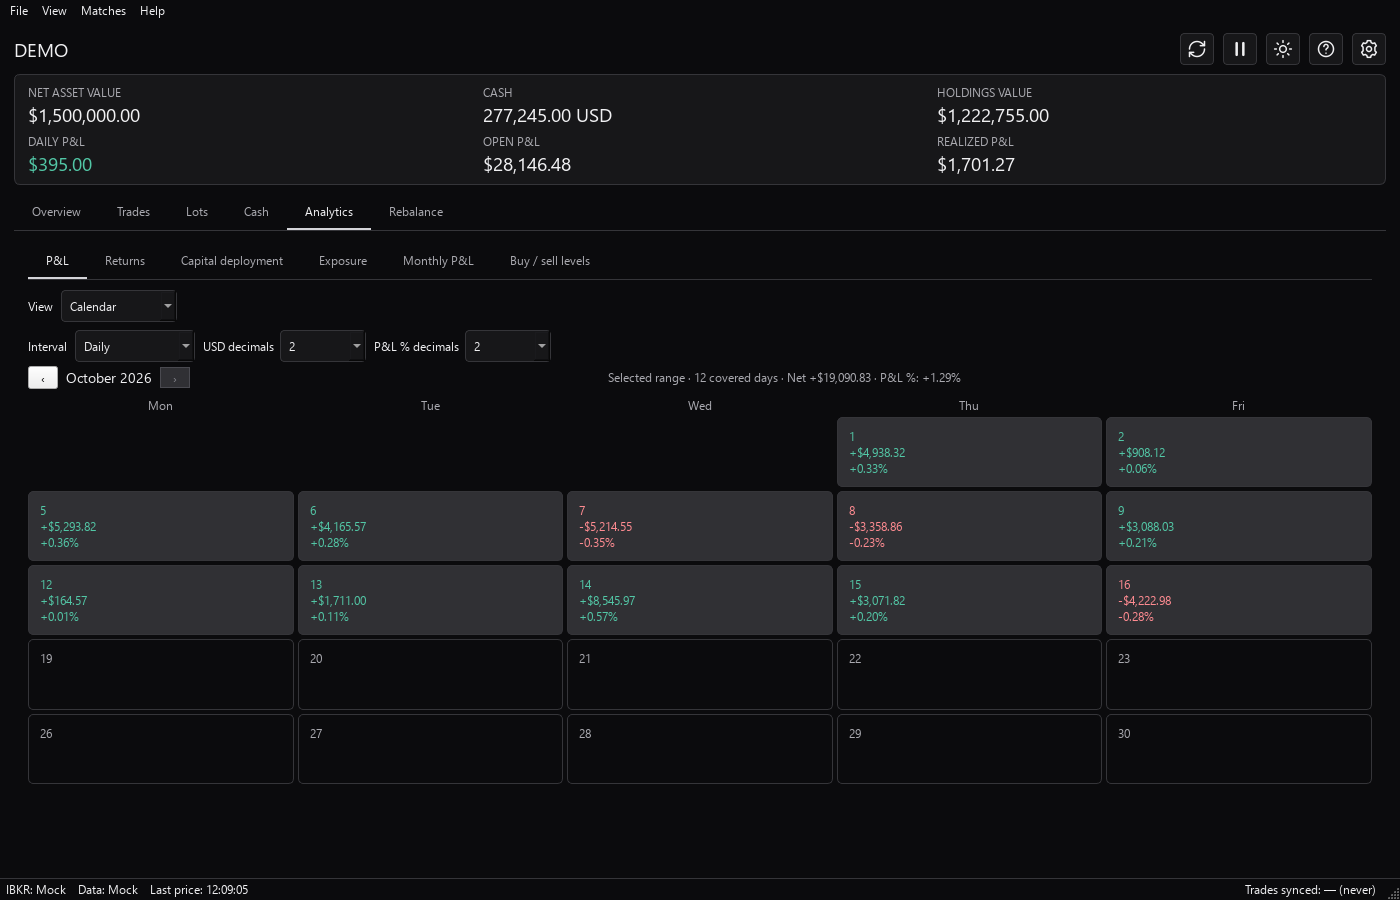
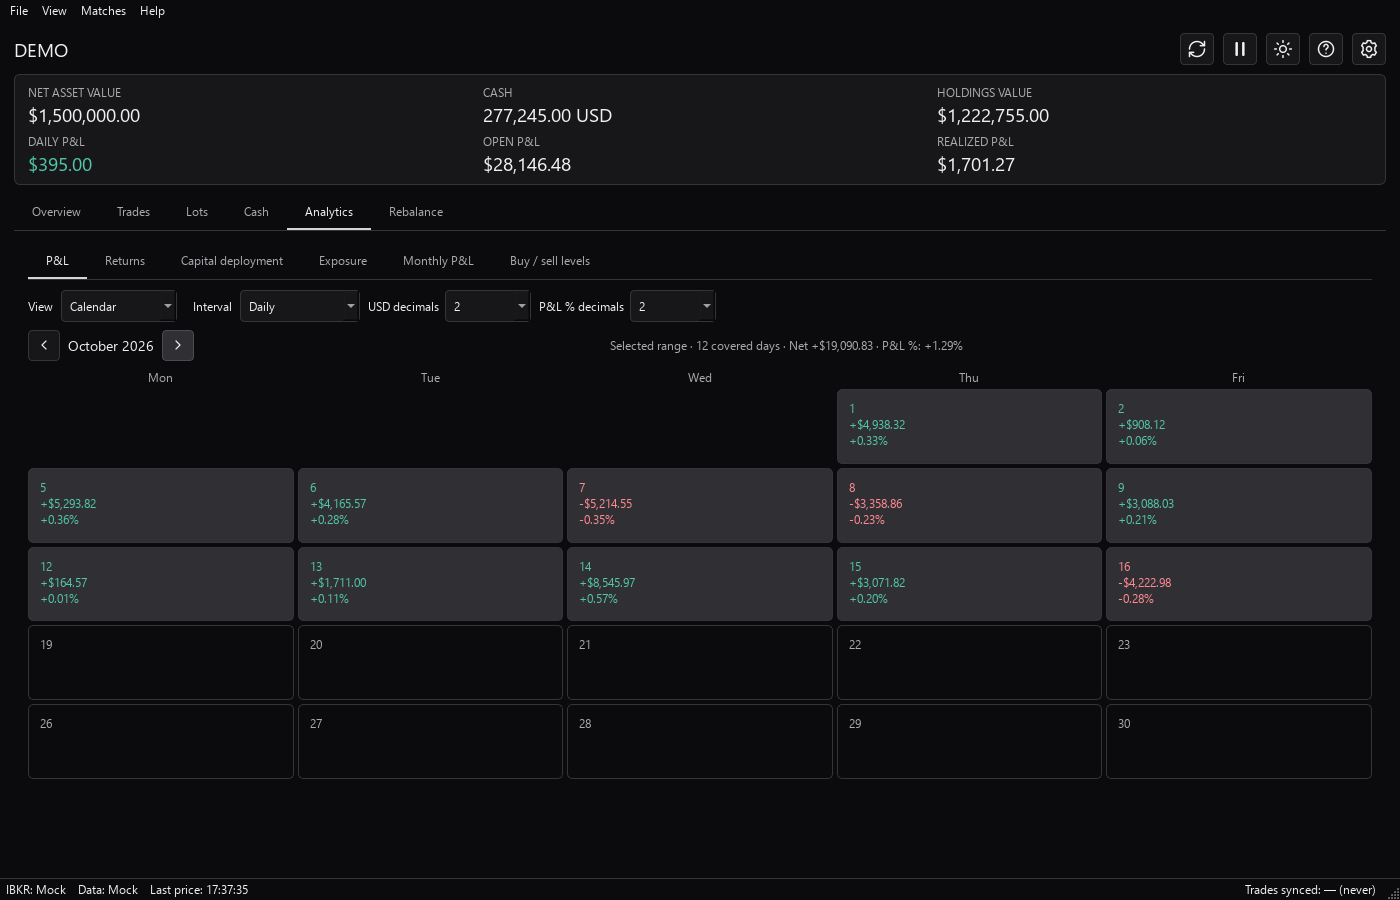
Polish P&L calendar and build version 1.1.1

diff --git a/app/views/calendar_ui.py b/app/views/calendar_ui.py
@@ -1,21 +1,22 @@
 """Reusable interval controls and adaptive calendar grids."""
 
-from PySide6.QtCore import Qt, Signal
+from PySide6.QtCore import QSize, Qt, Signal
 from PySide6.QtWidgets import (QComboBox, QGridLayout, QHBoxLayout, QLabel,
-                               QSizePolicy, QToolButton, QVBoxLayout, QWidget)
+                               QSizePolicy, QWidget)
 
-from app.views.ui_theme import style_toolbar_dropdown
+from app.views.action_icons import action_icon
+from app.views.ui_theme import COLORS, style_toolbar_dropdown
+from app.views.widgets import button, section_title
 
 
 class CalendarToolbar(QWidget):
+    """Interval and optional filters on one row."""
+
     def __init__(self, intervals, parent=None):
         super().__init__(parent)
-        layout = QVBoxLayout(self)
-        layout.setContentsMargins(0, 0, 0, 0)
-        layout.setSpacing(4)
-        row = QHBoxLayout()
+        row = QHBoxLayout(self)
+        row.setContentsMargins(0, 0, 0, 0)
         row.setSpacing(8)
-        layout.addLayout(row)
         self._row = row
         row.addWidget(QLabel("Interval"))
         self.interval_combo = style_toolbar_dropdown(QComboBox())
@@ -24,38 +25,52 @@ class CalendarToolbar(QWidget):
         row.addWidget(self.interval_combo)
         self._next_control_index = row.count()
         row.addStretch()
-        navigation = QHBoxLayout()
-        navigation.setSpacing(8)
-        layout.addLayout(navigation)
-        self._navigation = navigation
-        self.previous_button = QToolButton()
-        self.previous_button.setText("‹")
-        self.previous_button.setToolTip("Previous period")
-        self.previous_button.setFixedWidth(30)
-        navigation.addWidget(self.previous_button)
-        self.period_label = QLabel()
-        self.period_label.setObjectName("sectionTitle")
-        self.period_label.setAlignment(Qt.AlignCenter)
-        navigation.addWidget(self.period_label)
-        self.next_button = QToolButton()
-        self.next_button.setText("›")
-        self.next_button.setToolTip("Next period")
-        self.next_button.setFixedWidth(30)
-        navigation.addWidget(self.next_button)
 
     def add_control(self, widget):
         """Place another filter beside the interval selector."""
         self._row.insertWidget(self._next_control_index, widget)
         self._next_control_index += 1
 
-    def add_navigation_detail(self, widget):
+
+class CalendarNavigation(QWidget):
+    """Theme-aware period navigation with room for a summary."""
+
+    def __init__(self, parent=None):
+        super().__init__(parent)
+        row = QHBoxLayout(self)
+        row.setContentsMargins(0, 0, 0, 0)
+        row.setSpacing(8)
+        self._row = row
+        self.previous_button = button("")
+        self.previous_button.setToolTip("Previous period")
+        self.previous_button.setAccessibleName("Previous period")
+        self.previous_button.setFixedSize(32, 32)
+        self.previous_button.setIconSize(QSize(16, 16))
+        row.addWidget(self.previous_button)
+        self.period_label = section_title("")
+        self.period_label.setAlignment(Qt.AlignCenter)
+        row.addWidget(self.period_label)
+        self.next_button = button("")
+        self.next_button.setToolTip("Next period")
+        self.next_button.setAccessibleName("Next period")
+        self.next_button.setFixedSize(32, 32)
+        self.next_button.setIconSize(QSize(16, 16))
+        row.addWidget(self.next_button)
+        self.set_theme("light")
+
+    def add_detail(self, widget):
         """Show contextual information beside the current period."""
-        self._navigation.addWidget(widget, 1)
+        self._row.addWidget(widget, 1)
 
     def set_period(self, label, can_previous, can_next):
         self.period_label.setText(label)
         self.previous_button.setEnabled(can_previous)
         self.next_button.setEnabled(can_next)
+
+    def set_theme(self, theme):
+        color = COLORS[theme]["text"]
+        self.previous_button.setIcon(action_icon("chevron_left", color))
+        self.next_button.setIcon(action_icon("chevron_right", color))
 
 
 class DecimalPlacesControl(QWidget):

diff --git a/tests/test_analytics.py b/tests/test_analytics.py
@@ -28,13 +28,22 @@ def test_pnl_calendar_intervals_use_covered_days_and_selected_range():
     app.processEvents()
     assert calendar.minimumSizeHint().width() <= 750
     toolbar = calendar.toolbar
+    navigator = calendar.navigator
+    assert navigator.previous_button.text() == ""
+    assert navigator.next_button.text() == ""
+    assert navigator.previous_button.objectName() == "secondary"
+    assert navigator.next_button.objectName() == "secondary"
+    assert navigator.previous_button.accessibleName() == "Previous period"
+    assert navigator.next_button.accessibleName() == "Next period"
+    assert not navigator.previous_button.icon().isNull()
+    assert not navigator.next_button.icon().isNull()
     assert calendar.usd_decimals.parentWidget() is toolbar
     assert calendar.percent_decimals.parentWidget() is toolbar
     assert toolbar.interval_combo.geometry().right() < calendar.usd_decimals.geometry().left()
     assert calendar.usd_decimals.geometry().right() < calendar.percent_decimals.geometry().left()
     assert calendar.usd_decimals.caption.text() == "USD decimals"
     assert calendar.percent_decimals.caption.text() == "P&L % decimals"
-    assert toolbar.previous_button.geometry().center().y() > calendar.percent_decimals.geometry().center().y()
+    assert navigator.geometry().center().y() > toolbar.geometry().center().y()
     assert abs(toolbar.interval_combo.geometry().center().y() -
                calendar.percent_decimals.geometry().center().y()) < 5
     rows = [
@@ -71,6 +80,27 @@ def test_pnl_calendar_intervals_use_covered_days_and_selected_range():
     assert "No covered daily P&L" in calendar.summary_label.text()
     assert "$8.00" not in calendar.period_cells[0].text()
     assert "0.29%" not in calendar.period_cells[0].text()
+    calendar.close()
+
+
+def test_pnl_calendar_daily_arrows_move_one_month():
+    import os
+    os.environ.setdefault("QT_QPA_PLATFORM", "offscreen")
+    from PySide6.QtWidgets import QApplication
+    from app.views.pnl_calendar import PnlCalendar
+
+    app = QApplication.instance() or QApplication([])
+    calendar = PnlCalendar()
+    calendar.set_data([], date(2026, 7, 1), date(2026, 9, 30), True)
+    assert calendar.period_label.text() == "September 2026"
+    assert not calendar.next_button.isEnabled()
+    calendar.previous_button.click()
+    assert calendar.period_label.text() == "August 2026"
+    calendar.previous_button.click()
+    assert calendar.period_label.text() == "July 2026"
+    assert not calendar.previous_button.isEnabled()
+    calendar.next_button.click()
+    assert calendar.period_label.text() == "August 2026"
     calendar.close()
 
 
@@ -111,6 +141,15 @@ def test_pnl_calendar_switch_and_interval_restore_in_analytics(tmp_path, monkeyp
         tab._set_dates(date(2026, 1, 2), date(2026, 1, 5))
         tab.refresh()
         tab.pnl_view_combo.setCurrentText("Calendar")
+        window.tabs.setCurrentWidget(tab)
+        window.resize(1400, 900)
+        window.show()
+        app.processEvents()
+        assert not tab.pnl_calendar.toolbar.isHidden()
+        control_y = lambda widget: widget.mapTo(tab.pnl_page, widget.rect().center()).y()
+        assert abs(control_y(tab.pnl_view_combo) - control_y(tab.pnl_calendar.interval_combo)) < 5
+        assert abs(control_y(tab.pnl_view_combo) - control_y(tab.pnl_calendar.usd_decimals.dropdown)) < 5
+        assert abs(control_y(tab.pnl_view_combo) - control_y(tab.pnl_calendar.percent_decimals.dropdown)) < 5
         assert tab.controls_panel.isHidden()
         assert tab.pnl_summary_panel.isHidden()
         assert tab.range_combo.isHidden()
@@ -126,6 +165,7 @@ def test_pnl_calendar_switch_and_interval_restore_in_analytics(tmp_path, monkeyp
         assert "Net +$12 · P&L %: +1.200%" in tab.pnl_calendar.summary_label.text()
         state = tab.view_state()
         tab.pnl_view_combo.setCurrentText("Chart and table")
+        assert tab.pnl_calendar.toolbar.isHidden()
         assert not tab.controls_panel.isHidden()
         assert not tab.pnl_summary_panel.isHidden()
         assert not tab.range_combo.isHidden()

diff --git a/app/views/pnl_calendar.py b/app/views/pnl_calendar.py
@@ -7,7 +7,9 @@ import math
 from PySide6.QtCore import Qt
 from PySide6.QtWidgets import QLabel, QSizePolicy, QStackedWidget, QVBoxLayout, QWidget
 
-from app.views.calendar_ui import CalendarGrid, CalendarToolbar, DecimalPlacesControl
+from app.views.calendar_ui import (CalendarGrid, CalendarNavigation, CalendarToolbar,
+                                   DecimalPlacesControl)
+from app.views.widgets import hint
 
 
 def _signed_money(value, places=2):
@@ -29,7 +31,7 @@ def _signed_percent(value, places=2):
 class PnlCalendar(QWidget):
     """Browse daily or aggregated P&L within the selected analytics range."""
 
-    def __init__(self, parent=None):
+    def __init__(self, parent=None, *, inline_toolbar=True):
         super().__init__(parent)
         self._first = self._last = self._anchor = date.today()
         self._rows = {}
@@ -40,10 +42,11 @@ class PnlCalendar(QWidget):
         self.toolbar = CalendarToolbar(("Daily", "Weekly", "Monthly", "Quarterly", "Yearly"))
         self.interval_combo = self.toolbar.interval_combo
         self.interval_combo.currentIndexChanged.connect(self._render)
-        self.previous_button = self.toolbar.previous_button
+        self.navigator = CalendarNavigation()
+        self.previous_button = self.navigator.previous_button
         self.previous_button.clicked.connect(lambda: self._change_page(-1))
-        self.period_label = self.toolbar.period_label
-        self.next_button = self.toolbar.next_button
+        self.period_label = self.navigator.period_label
+        self.next_button = self.navigator.next_button
         self.next_button.clicked.connect(lambda: self._change_page(1))
         self.usd_decimal_control = DecimalPlacesControl("USD")
         self.percent_decimal_control = DecimalPlacesControl("P&L %")
@@ -51,14 +54,15 @@ class PnlCalendar(QWidget):
         self.percent_decimals = self.percent_decimal_control
         self.toolbar.add_control(self.usd_decimal_control)
         self.toolbar.add_control(self.percent_decimal_control)
-        layout.addWidget(self.toolbar)
+        if inline_toolbar:
+            layout.addWidget(self.toolbar)
         self.usd_decimals.valueChanged.connect(self._render)
         self.percent_decimals.valueChanged.connect(self._render)
-        self.summary_label = QLabel()
-        self.summary_label.setObjectName("hint")
+        self.summary_label = hint("")
         self.summary_label.setAlignment(Qt.AlignCenter)
         self.summary_label.setSizePolicy(QSizePolicy.Ignored, QSizePolicy.Preferred)
-        self.toolbar.add_navigation_detail(self.summary_label)
+        self.navigator.add_detail(self.summary_label)
+        layout.addWidget(self.navigator)
         self.note_label = QLabel()
         self.note_label.setObjectName("hint")
         self.note_label.setWordWrap(True)
@@ -73,6 +77,9 @@ class PnlCalendar(QWidget):
         self.period_cells = self.period_grid.cells
         self.grids.addWidget(self.period_grid)
         layout.addWidget(self.grids, 1)
+
+    def set_theme(self, theme):
+        self.navigator.set_theme(theme)
 
     def set_data(self, rows, first, last, complete):
         self._rows = {row["day"]: row for row in rows}
@@ -141,7 +148,7 @@ class PnlCalendar(QWidget):
             return
         interval = self.interval_combo.currentText()
         page = self._page_start(self._anchor)
-        self.toolbar.set_period("", page > self._page_start(self._first),
+        self.navigator.set_period("", page > self._page_start(self._first),
                                 page < self._page_start(self._last))
         self.grids.setCurrentIndex(0 if interval == "Daily" else 1)
         if interval == "Daily":

diff --git a/app/views/date_input.py b/app/views/date_input.py
@@ -1,9 +1,9 @@
 """Reusable ISO date entry with a keyboard-friendly calendar grid."""
 
 from PySide6.QtCore import QDate, QPoint, Qt, Signal
-from PySide6.QtGui import QColor, QFont, QIcon, QPen, QTextCharFormat
-from PySide6.QtWidgets import (QCalendarWidget, QHBoxLayout, QLineEdit,
-                               QMenu, QToolButton, QWidget, QWidgetAction)
+from PySide6.QtGui import QColor, QFont, QPen, QTextCharFormat
+from PySide6.QtWidgets import (QAbstractSpinBox, QCalendarWidget, QHBoxLayout, QLineEdit,
+                               QMenu, QSpinBox, QToolButton, QWidget, QWidgetAction)
 
 from app.views.ui_theme import COLORS
 
@@ -29,14 +29,14 @@ class DatePickerCalendar(QCalendarWidget):
         for weekday in (Qt.Monday, Qt.Tuesday, Qt.Wednesday, Qt.Thursday,
                         Qt.Friday, Qt.Saturday, Qt.Sunday):
             self.setWeekdayTextFormat(weekday, header)
-        for name, label in (("qt_calendar_prevmonth", "‹"),
-                            ("qt_calendar_nextmonth", "›")):
+        for name, direction in (("qt_calendar_prevmonth", Qt.LeftArrow),
+                                ("qt_calendar_nextmonth", Qt.RightArrow)):
             button = self.findChild(QToolButton, name)
             if button is not None:
-                button.setArrowType(Qt.NoArrow)
-                button.setIcon(QIcon())
-                button.setText(label)
-                button.setToolButtonStyle(Qt.ToolButtonTextOnly)
+                button.setArrowType(direction)
+        year_editor = self.findChild(QSpinBox, "qt_calendar_yearedit")
+        if year_editor is not None:
+            year_editor.setButtonSymbols(QAbstractSpinBox.NoButtons)
 
     def setRange(self, first, last):
         self.range_start = first if first.isValid() and last.isValid() and first <= last else None
@@ -61,7 +61,7 @@ class DatePickerCalendar(QCalendarWidget):
             painter.drawRoundedRect(tile.adjusted(0, 0, -1, -1), 6, 6)
         available = self.minimumDate() <= day <= self.maximumDate()
         current_month = day.year() == self.yearShown() and day.month() == self.monthShown()
-        painter.setPen(QColor(colors["surface"] if selected else
+        painter.setPen(QColor(colors["calendar_selected_text"] if selected else
                                colors["text"] if available and current_month else colors["muted"]))
         painter.drawText(rect, Qt.AlignCenter, str(day.day()))
         painter.restore()

diff --git a/app/views/analytics_ui.py b/app/views/analytics_ui.py
@@ -639,6 +639,7 @@ class AnalyticsTab(QWidget):
 
     def _pnl_view_changed(self, index):
         self.pnl_views.setCurrentIndex(index)
+        self.pnl_calendar.toolbar.setVisible(index == 1)
         if self.sections.currentWidget() is self.pnl_page:
             self._update_section_controls()
 
@@ -830,11 +831,16 @@ class AnalyticsTab(QWidget):
                                       "Daily adjusted P&L"), "analytics_pnl_decimals",
                                      {1: (2, "usd"), 2: (2, "usd"), 3: (2, "usd"),
                                       4: (2, "percent"), 5: (2, "usd"), 6: (2, "usd")})
+        self.pnl_calendar = PnlCalendar(inline_toolbar=False)
         view_controls = QHBoxLayout()
+        view_controls.setSpacing(TOOLBAR_ITEM_SPACING)
         view_controls.addWidget(QLabel("View"))
         self.pnl_view_combo = style_toolbar_dropdown(QComboBox())
         self.pnl_view_combo.addItems(("Chart and table", "Calendar"))
         view_controls.addWidget(self.pnl_view_combo)
+        view_controls.addSpacing(TOOLBAR_GROUP_SPACING - TOOLBAR_ITEM_SPACING)
+        view_controls.addWidget(self.pnl_calendar.toolbar)
+        self.pnl_calendar.toolbar.hide()
         view_controls.addStretch()
         layout.addLayout(view_controls)
         self.pnl_views = QStackedWidget()
@@ -847,7 +853,6 @@ class AnalyticsTab(QWidget):
         self.pnl_splitter, self.pnl_layout_combo = self._split_view(
             chart_layout, self.pnl_chart, self.pnl_table, self.pnl_navigator,
             "analytics_pnl_splitter", self.pnl_hint)
-        self.pnl_calendar = PnlCalendar()
         for name, control in (("usd", self.pnl_calendar.usd_decimals),
                               ("percent", self.pnl_calendar.percent_decimals)):
             key = f"analytics_pnl_calendar_{name}_decimals_{self.portfolio_id}"
@@ -1557,6 +1562,7 @@ class AnalyticsTab(QWidget):
 
     def set_theme(self, theme):
         self.palette_name = theme
+        self.pnl_calendar.set_theme(theme)
         self.levels_page.set_theme(theme)
         self.exposure_page.set_theme(theme)
         self.return_page.set_theme(theme)

diff --git a/app/views/ui_theme.py b/app/views/ui_theme.py
@@ -21,7 +21,8 @@ COLORS = {
         "grid_warning_text": "#9b4917",
         "disabled_surface": "#e8ecef", "disabled_text": "#87939d",
         "disabled_border": "#cfd7dd",
-        "calendar_range": "#eef1f3", "calendar_selected": "#343a40",
+        "calendar_range": "#eef1f3", "calendar_selected": "#d9edf6",
+        "calendar_selected_text": "#15374a",
     },
     "dark": {
         "canvas": "#0b0b0d", "surface": "#171719", "surface_alt": "#222225",
@@ -40,6 +41,7 @@ COLORS = {
         "disabled_surface": "#303034", "disabled_text": "#85858d",
         "disabled_border": "#4a4a50",
         "calendar_range": "#29292d", "calendar_selected": "#d4d4d8",
+        "calendar_selected_text": "#0b0b0d",
     },
 }
 
@@ -135,6 +137,11 @@ QCalendarWidget#datePickerCalendar QToolButton {
 }
 QCalendarWidget#datePickerCalendar QToolButton:hover { background: ${surface_alt}; }
 QCalendarWidget#datePickerCalendar QToolButton::menu-indicator { image: none; }
+QCalendarWidget#datePickerCalendar QSpinBox#qt_calendar_yearedit {
+    background: ${surface}; color: ${text}; border: 1px solid ${line};
+    border-radius: 4px; selection-background-color: ${selection};
+    selection-color: ${selection_text};
+}
 QCalendarWidget#datePickerCalendar QTableView {
     background: ${surface}; color: ${text}; border: 0; outline: 0;
     selection-background-color: ${surface}; selection-color: ${text};

diff --git a/app/views/action_icons.py b/app/views/action_icons.py
@@ -6,6 +6,8 @@ from PySide6.QtSvg import QSvgRenderer
 
 
 _PATHS = {
+    "chevron_left": '<path d="m15 18-6-6 6-6"/>',
+    "chevron_right": '<path d="m9 6 6 6-6 6"/>',
     "sync": ('<path d="M3 12a9 9 0 0 1 15.36-6.36L21 8"/>'
              '<path d="M21 3v5h-5"/>'
              '<path d="M21 12a9 9 0 0 1-15.36 6.36L3 16"/>'

diff --git a/app/version.py b/app/version.py
@@ -1,3 +1,3 @@
 """Application release version shared by the UI and packaging."""
 
-VERSION = "1.1.0"
+VERSION = "1.1.1"
